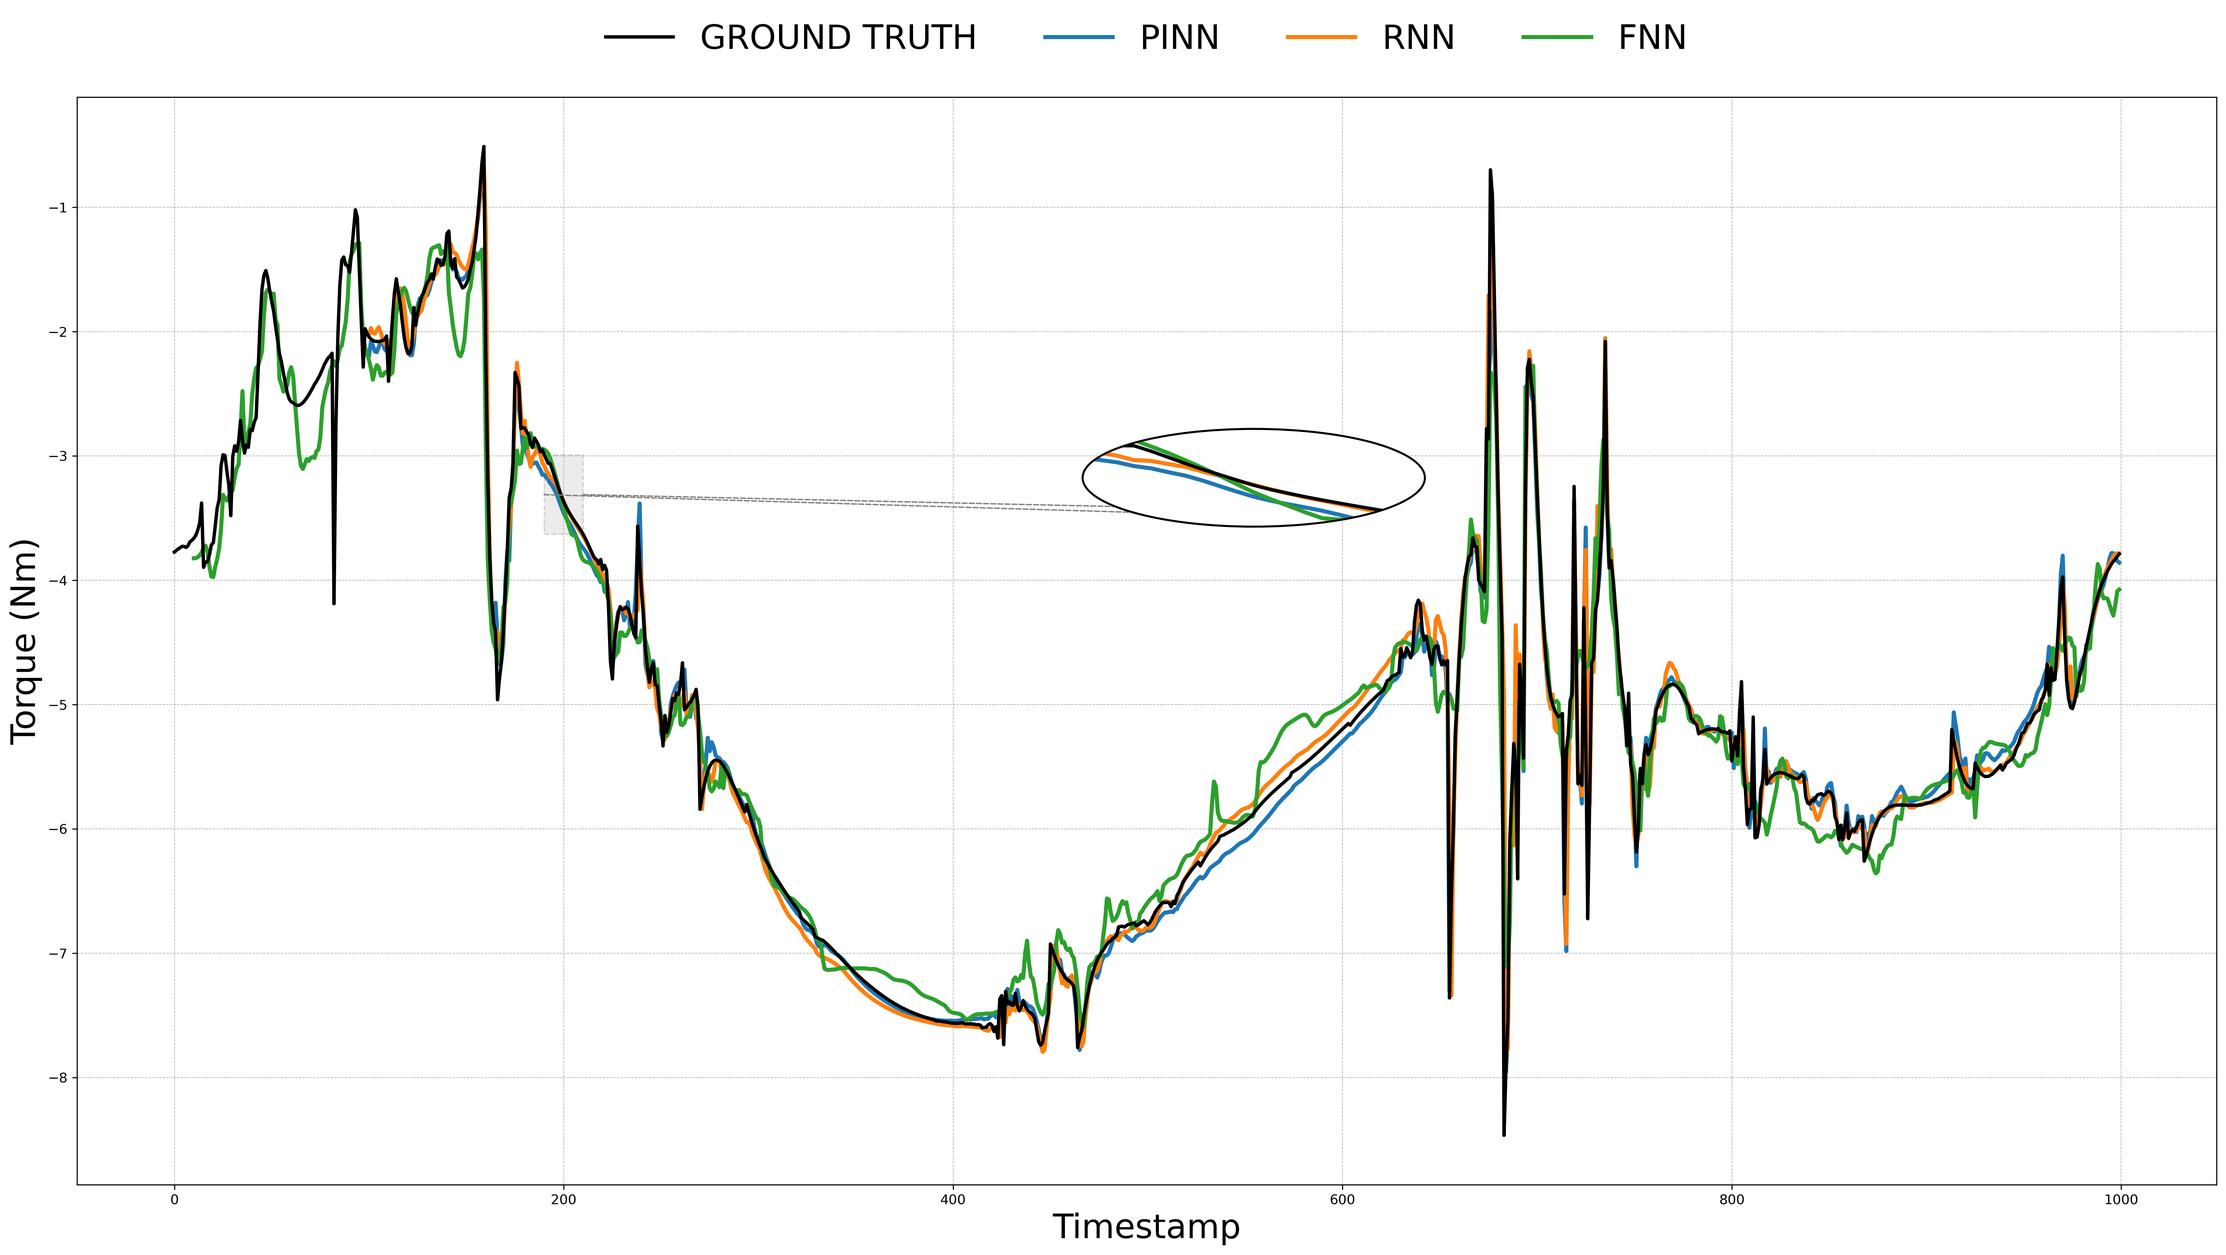
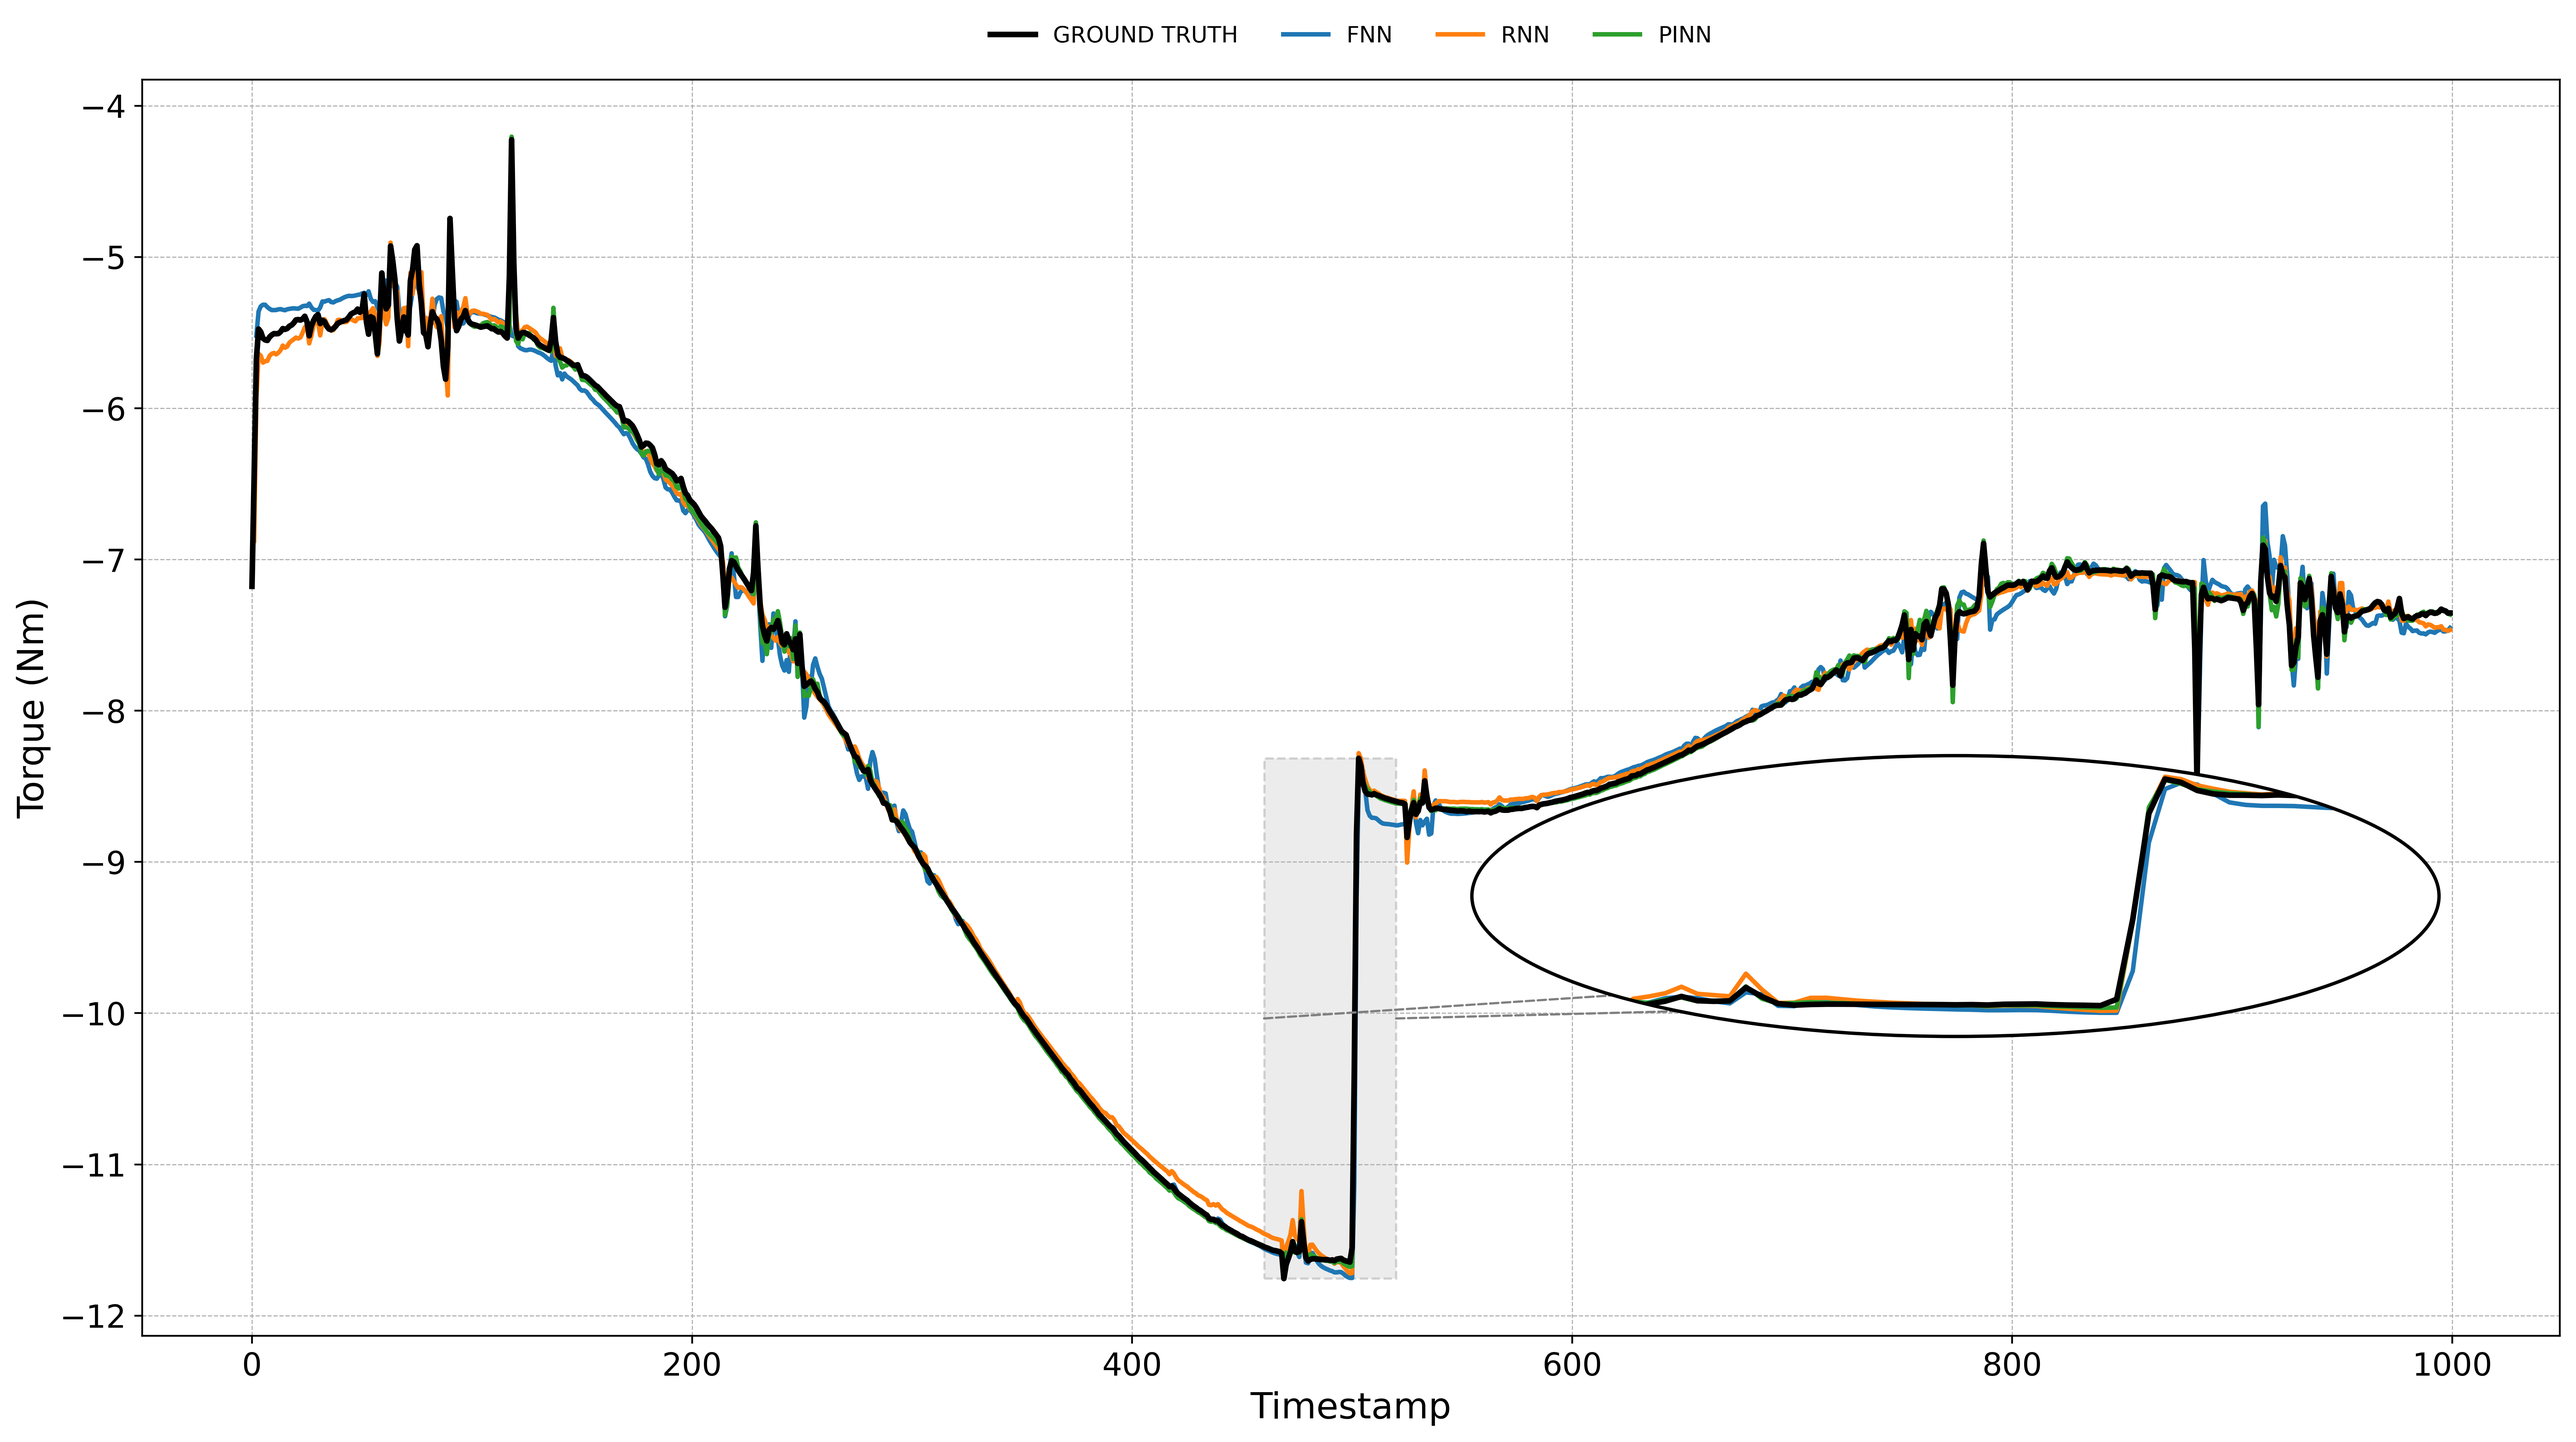
perfect plot

diff --git a/compare_standard_plot.py b/compare_standard_plot.py
@@ -52,7 +52,8 @@ class ComparisonApp:
         self.inset_radius, self.inset_cx, self.inset_cy = tk.DoubleVar(value=0.20), tk.DoubleVar(value=0.75), tk.DoubleVar(value=0.35)
         self.plot_settings = {'width': tk.DoubleVar(value=16), 'height': tk.DoubleVar(value=9),
                               'x_title': tk.StringVar(value='Timestamp'), 'y_title': tk.StringVar(value='Torque (Nm)'),
-                              'label_size': tk.IntVar(value=14), 'legend_size': tk.IntVar(value=10)}
+                              'axis_title_size': tk.IntVar(value=16), 'label_size': tk.IntVar(value=14), 
+                              'legend_size': tk.IntVar(value=10)}
 
         main_frame = ttk.Frame(self.root, padding="10"); main_frame.grid(sticky="nsew"); self.root.columnconfigure(0, weight=1)
         self.setup_data_ui(main_frame)
@@ -75,10 +76,13 @@ class ComparisonApp:
         sf = ttk.Frame(p, padding="5"); sf.grid(row=2, column=0, sticky="ew", padx=5, pady=5); sf.columnconfigure((0,1), weight=1)
         
         psf = ttk.LabelFrame(sf, text="Plot Settings", padding=10); psf.grid(row=0, column=0, sticky="nsew", padx=5); psf.columnconfigure(1, weight=1)
-        # Simplified creation of labeled entries
-        for i, (label, var) in enumerate([("Filename Prefix:", self.plot_prefix), ("Plot Width:", self.plot_settings['width']), ("Plot Height:", self.plot_settings['height']),
-                                          ("X-Axis Title:", self.plot_settings['x_title']), ("Y-Axis Title:", self.plot_settings['y_title']), 
-                                          ("Label Size:", self.plot_settings['label_size']), ("Legend Size:", self.plot_settings['legend_size'])]):
+        
+        settings_vars = [("Filename Prefix:", self.plot_prefix), ("Plot Width:", self.plot_settings['width']), ("Plot Height:", self.plot_settings['height']),
+                         ("X-Axis Title:", self.plot_settings['x_title']), ("Y-Axis Title:", self.plot_settings['y_title']), 
+                         ("Axis Title Size:", self.plot_settings['axis_title_size']),
+                         ("Tick Label Size:", self.plot_settings['label_size']), 
+                         ("Legend Size:", self.plot_settings['legend_size'])]
+        for i, (label, var) in enumerate(settings_vars):
             ttk.Label(psf, text=label).grid(row=i, column=0, sticky="w", padx=2, pady=2)
             ttk.Entry(psf, textvariable=var, width=15).grid(row=i, column=1, sticky="ew", padx=2)
 
@@ -95,14 +99,10 @@ class ComparisonApp:
         entry_vars = {'path': tk.StringVar(), 'legend': tk.StringVar(), 'color': tk.StringVar(value=color), 
                       'line_style': tk.StringVar(value='solid'), 'line_width': tk.DoubleVar(value=1.8)}
 
-        # Model Path and Browse
         ttk.Label(ef, text="Model:").pack(side=tk.LEFT); ttk.Entry(ef, textvariable=entry_vars['path'], width=30).pack(side=tk.LEFT, expand=True, fill=tk.X, padx=5)
         ttk.Button(ef, text="Browse", command=lambda v=entry_vars: self.browse_model(v)).pack(side=tk.LEFT)
-        
-        # Legend Name
         ttk.Label(ef, text="Legend:").pack(side=tk.LEFT, padx=(10,2)); ttk.Entry(ef, textvariable=entry_vars['legend'], width=15).pack(side=tk.LEFT)
         
-        # Line Style Configuration
         cl = ttk.Label(ef, text="      ", background=color, relief="solid"); cl.pack(side=tk.LEFT, padx=(10, 2), ipady=2)
         ttk.Button(ef, text="Color", command=lambda v=entry_vars['color'], l=cl: self.choose_color(v, l)).pack(side=tk.LEFT)
         
@@ -134,7 +134,7 @@ class ComparisonApp:
                 self.create_circular_magnifier(fig, ax, df_gt, all_predictions, joint_target)
                 plt.tight_layout(pad=1.0)
                 chart_path = f"{(self.plot_prefix.get() or 'comparison')}_{joint_target}.png"
-                plt.savefig(chart_path, dpi=300, bbox_inches='tight')
+                plt.savefig(chart_path, dpi=1000, bbox_inches='tight')
                 plt.close(fig)
                 webbrowser.open('file://' + os.path.realpath(chart_path))
         except Exception as e:
@@ -173,8 +173,9 @@ class ComparisonApp:
             ax.plot(ts, preds[f"predicted_{joint_target}"].values, label=entry['legend'].get(), color=entry['color'].get(), 
                     linestyle=entry['line_style'].get(), lw=entry['line_width'].get())
 
-        ax.set_xlabel(self.plot_settings['x_title'].get(), fontsize=self.plot_settings['label_size'].get())
-        ax.set_ylabel(self.plot_settings['y_title'].get(), fontsize=self.plot_settings['label_size'].get())
+        ax.set_xlabel(self.plot_settings['x_title'].get(), fontsize=self.plot_settings['axis_title_size'].get())
+        ax.set_ylabel(self.plot_settings['y_title'].get(), fontsize=self.plot_settings['axis_title_size'].get())
+        ax.tick_params(axis='both', which='major', labelsize=self.plot_settings['label_size'].get())
         ax.legend(loc='lower center', bbox_to_anchor=(0.5, 1.01), ncol=len(all_predictions) + 1,
                   fontsize=self.plot_settings['legend_size'].get(), frameon=False)
         ax.grid(True, which='both', linestyle='--', linewidth=0.5)
